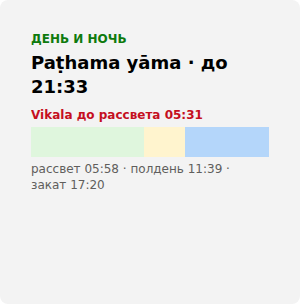
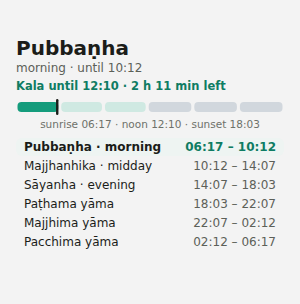
Uposatha moon: the crescent is drawn as it is, not thicker (owner: 6 % of light looked like 15 %) - the terminator is the true one, only the first 3 % of light get a little more so that the day after a new moon can be told from the new one; the same curve in the Windows widget's picture. The picker 
Claude-Session: https://claude.ai/code/session_019kKsVzdFpaa54zZdAXFvwg

diff --git a/public/overrides/js/dg-moon.js b/public/overrides/js/dg-moon.js
@@ -22,8 +22,8 @@
   let uid = 0, TEX = null;
   const norm = f => ((f % 1) + 1) % 1;
   const illum = f => (1 - Math.cos(2 * Math.PI * norm(f))) / 2;
-  // The terminator as it is DRAWN (a loader that is honest and still readable): the true crescent of the day after a new moon is ~2 units thick and looks like the new moon; the thin part is raised to the power 0.6, the middle of the cycle hardly changes. Same in WidgetMoon.java / MoonView.swift.
-  const seen = a => { const u = 1 - Math.min(1, Math.max(0, a)); return 1 - (Math.pow(u, 0.6) + 0.07 * Math.exp(-u / 0.06) * (1 - Math.exp(-u / 0.0015))); }; // + a bump for the first 5 % so that the day after a new moon (and the 14th day) can be told from the new (full) one; not exact on purpose
+  // The terminator as it is DRAWN: the true one, but for the first 3 % of light, where a true crescent is thinner than the soft edge of the shadow and the day after a new moon (and the 14th day) would look like the new (full) one - there it gets a little more (at most 0.04 of the radius). Owner, 2026-10-13: the old curve (the thickness to the power 0.6) drew 6 % of light like 15 %. Same function in uposatha-widget-svg.js, WidgetMoon.java and MoonView.swift.
+  const seen = a => { const u = 1 - Math.min(1, Math.max(0, a)); return Math.max(0, 1 - (u + 0.05 * (1 - Math.exp(-u / 0.01)) * Math.exp(-u / 0.15))); };
 
   // ---------- геометрия ----------
   // Освещённая часть — для нативного виджета (SwiftUI Path / Android Canvas повторяют её один в один).

diff --git a/public/overrides/js/uposatha-widget-svg.js b/public/overrides/js/uposatha-widget-svg.js
@@ -37,8 +37,8 @@
     if (f >= 0.02 && f <= 0.98) {
       if (Math.abs(f - 0.5) < 0.02) out += '<circle cx="' + n2(cx) + '" cy="' + n2(cy) + '" r="' + r + '" fill="' + p.lit + '"/>';
       else {
-        // drawn, not true: the thin crescents are made thicker, so that the day after a new moon can be told from the new one (as dg-moon.js)
-        var k = Math.cos(2 * Math.PI * f), q = 1 - Math.min(1, Math.abs(k)), thick = Math.pow(q, 0.6) + 0.07 * Math.exp(-q / 0.06) * (1 - Math.exp(-q / 0.0015));
+        // the true crescent, a little thicker in the first 3 % of light so that the day after a new moon can be told from the new one (as dg-moon.js)
+        var k = Math.cos(2 * Math.PI * f), q = 1 - Math.min(1, Math.abs(k)), thick = q + 0.05 * (1 - Math.exp(-q / 0.01)) * Math.exp(-q / 0.15);
         var rx = n2(Math.max(0, 1 - thick) * r), limb = f < 0.5 ? 1 : -1, term = k < 0 ? -limb : limb;
         if (south) { limb = -limb; term = -term; }
         out += '<path d="M' + n2(cx) + ' ' + n2(cy - r) + 'A' + r + ' ' + r + ' 0 0 ' + (limb > 0 ? 1 : 0) + ' ' + n2(cx) + ' ' + n2(cy + r) +
